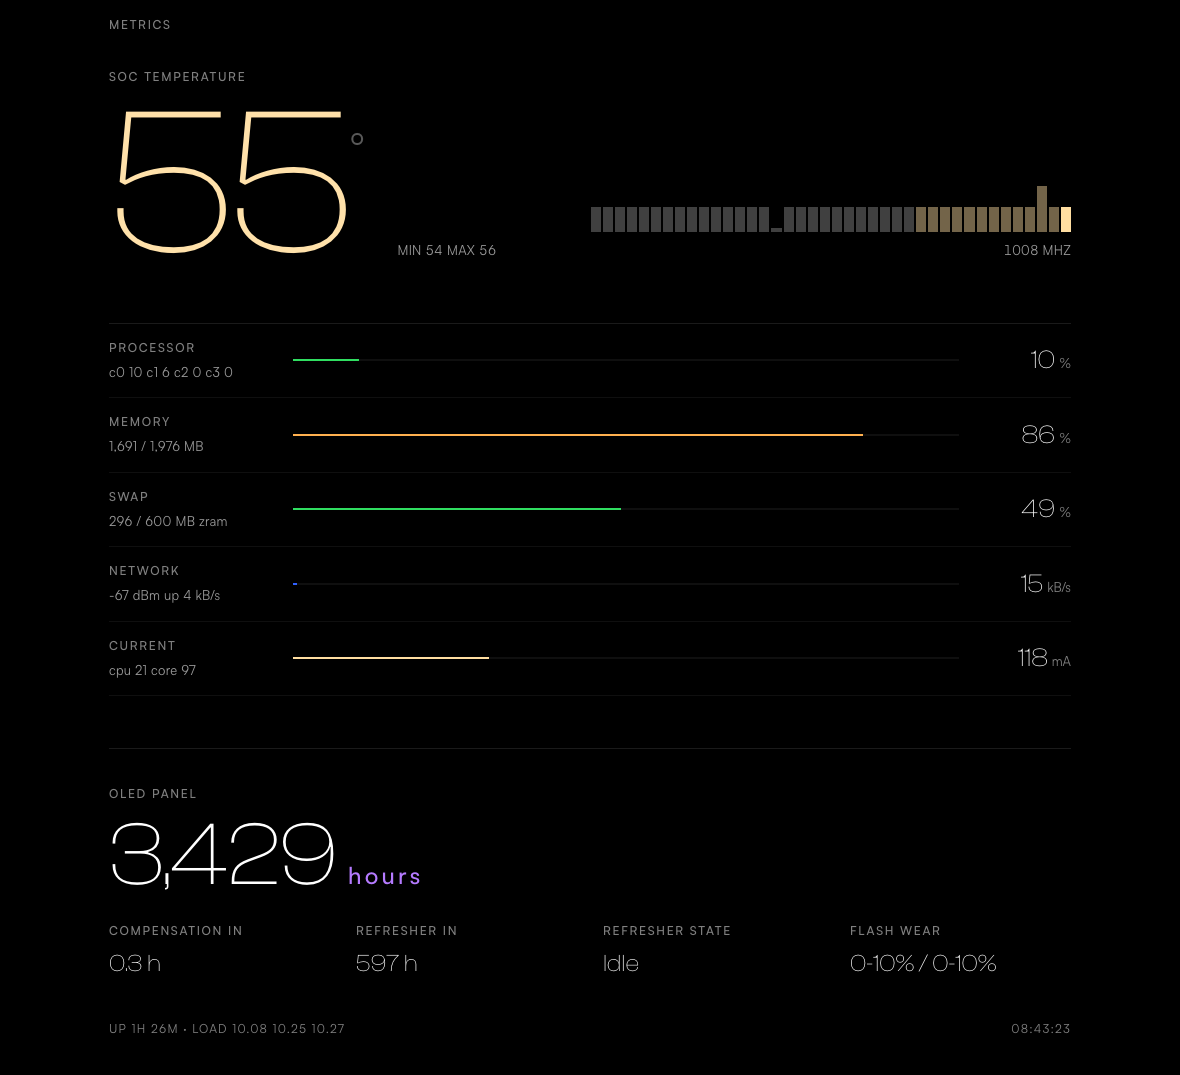
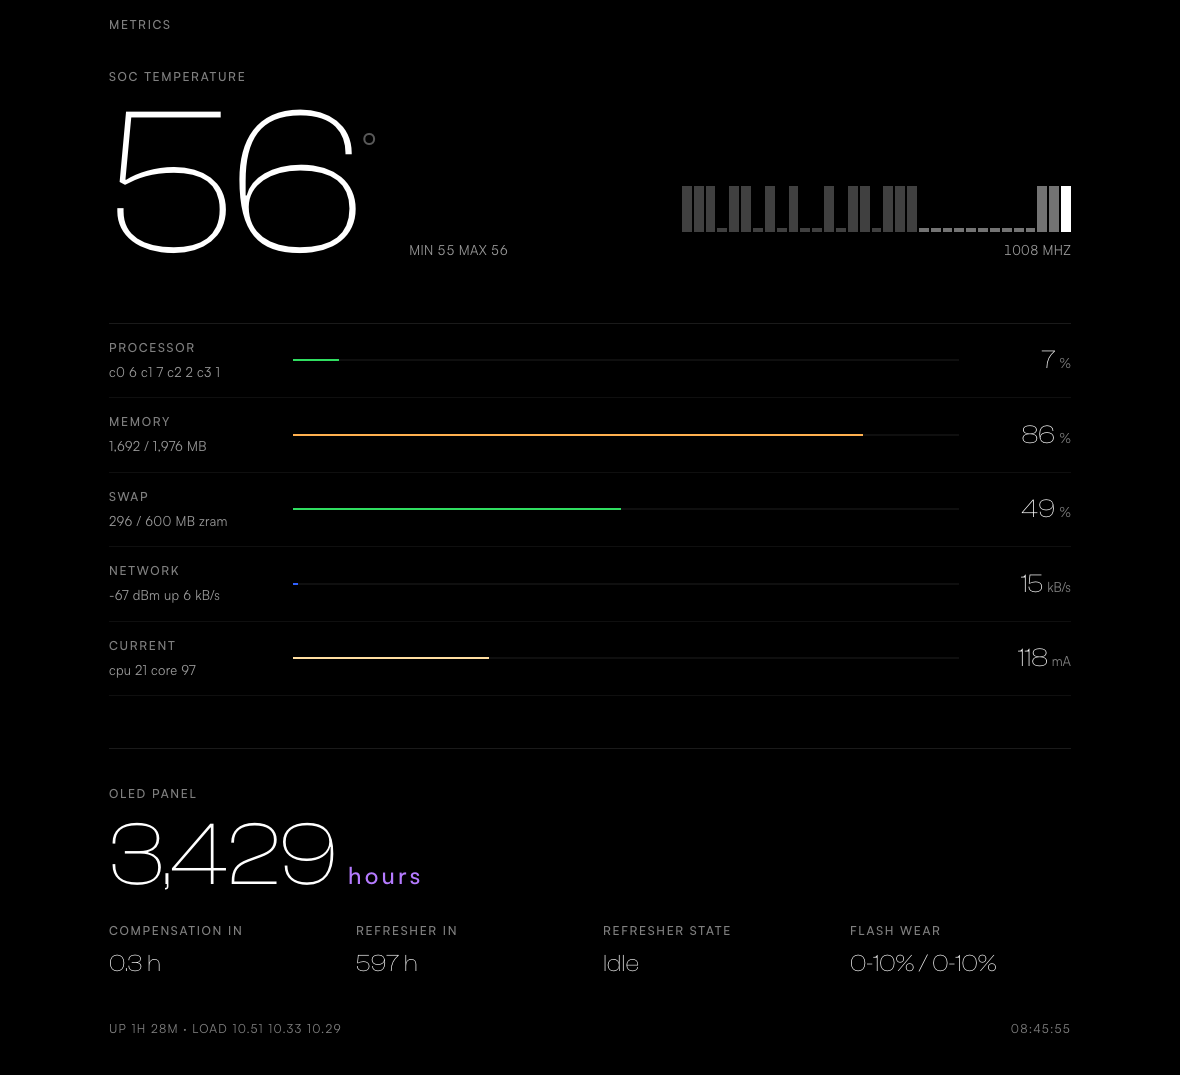
Keep the temperature white through the normal band
The hero warmed to amber from 57C, but this panel sits around 55C during
ordinary Dolby Vision playback, so a perfectly healthy reading looked
like a warning. Colouring a normal value just teaches you to ignore the
colour.

It now stays white below 75C, goes amber at 75 and red at 85. Observed
on this set: ~37C idle, ~61C sustained under playback, so 75 leaves real
headroom above anything seen in normal use.

Thresholds are named constants rather than inline numbers, since the
right values are panel-specific.

diff --git a/server/assets/ui.html b/server/assets/ui.html
@@ -230,13 +230,20 @@ const ROWS = [
 ];
 const TINT = Object.fromEntries(ROWS.map(r => [r.k, r.tint || null]));
 
-/* A thermal ramp rather than a red/amber/green light: the hero warms as the
-   SoC does, which reads as temperature instead of as an alarm. */
+/*
+ * The hero stays white through the whole normal operating band, and only takes
+ * colour when something is actually wrong. Colouring an ordinary reading just
+ * trains you to ignore it.
+ *
+ * Observed on this panel: ~37C idle, ~61C sustained during Dolby Vision
+ * playback. 75C therefore leaves real headroom above anything seen in normal
+ * use, so amber means "worth a look" rather than "business as usual".
+ */
+var TEMP_WARN = 75, TEMP_CRIT = 85;
 function thermal(t) {
-  if (t < 45) return 'var(--cool)';
-  if (t < 57) return 'var(--warm)';
-  if (t < 68) return 'var(--cand)';
-  return 'var(--red)';
+  if (t >= TEMP_CRIT) return 'var(--red)';
+  if (t >= TEMP_WARN) return 'var(--cand)';
+  return 'var(--w100)';
 }
 function headroom(pct, warn) {
   if (pct >= warn) return 'var(--red)';

diff --git a/README.md b/README.md
@@ -28,10 +28,10 @@ with no cloud round-trip.
 
 ### Metrics
 
-Typography-led and monochrome, with colour reserved for meaning: the
-temperature reading warms through its range, headroom bars run green to amber
-to red, and Dolby Vision is picked out where it appears. Body text meets WCAG
-AA contrast (4.5:1) on black.
+Typography-led and monochrome, with colour reserved for meaning: headroom bars
+run green to amber to red, Dolby Vision is picked out where it appears, and the
+temperature stays white right through the normal operating band, taking colour
+only above 75&deg;C. Body text meets WCAG AA contrast (4.5:1) on black.
 
 <p align="center">
   <img src="docs/screenshots/dashboard.png" alt="Metrics: SoC temperature, resource readouts and OLED panel hours" width="900">
